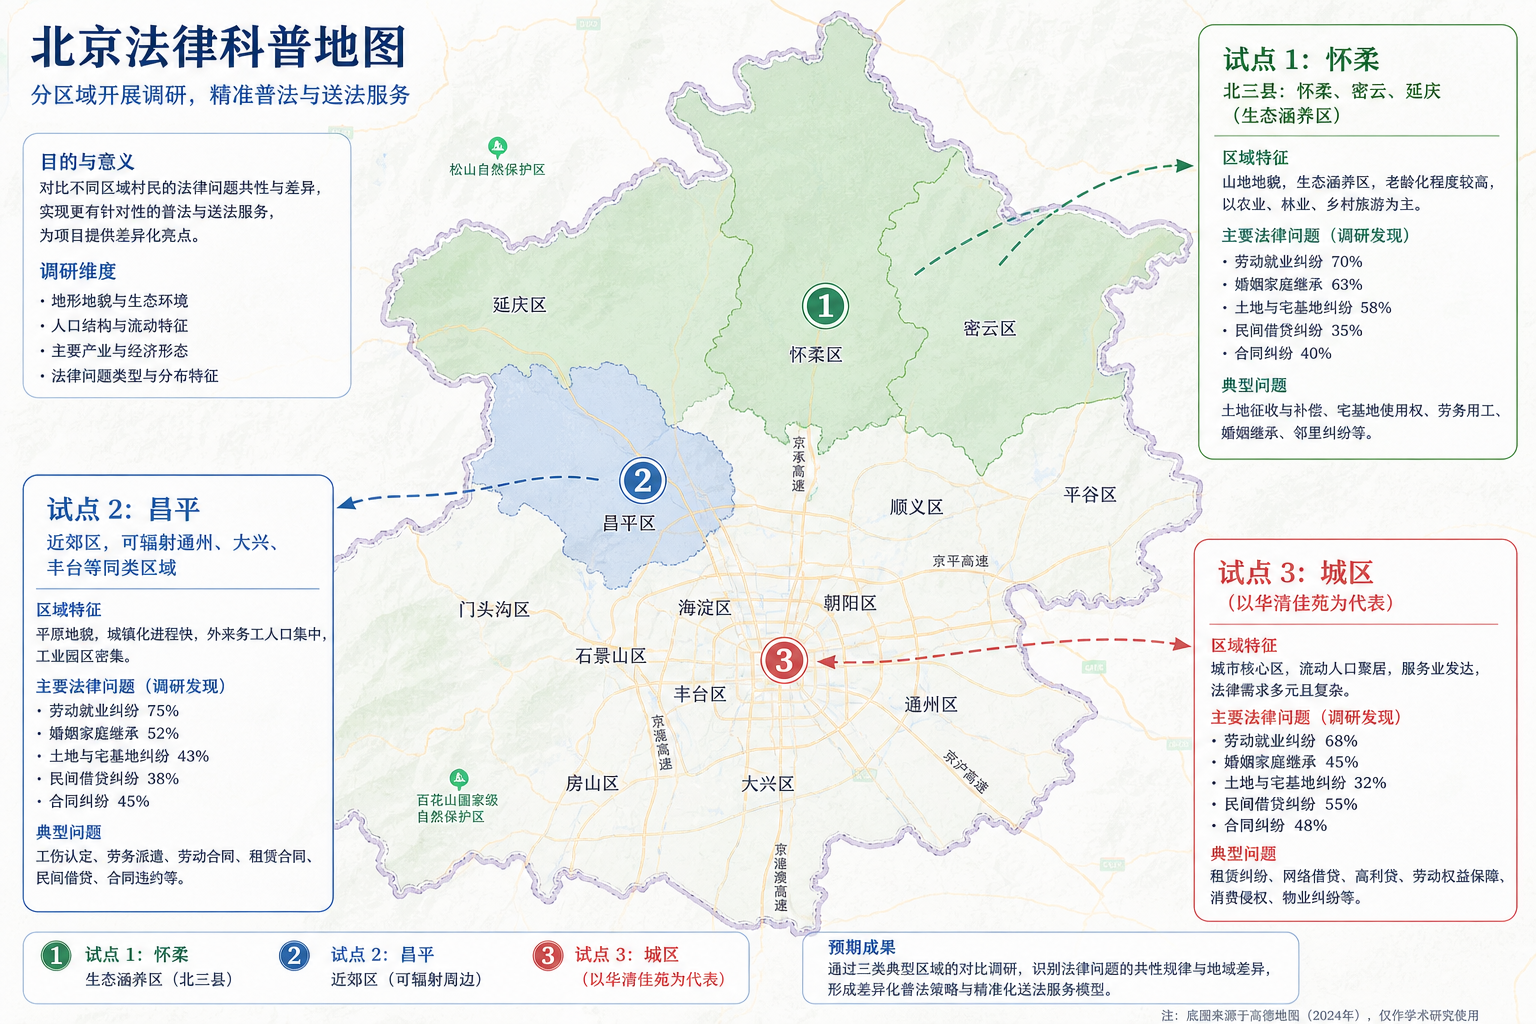
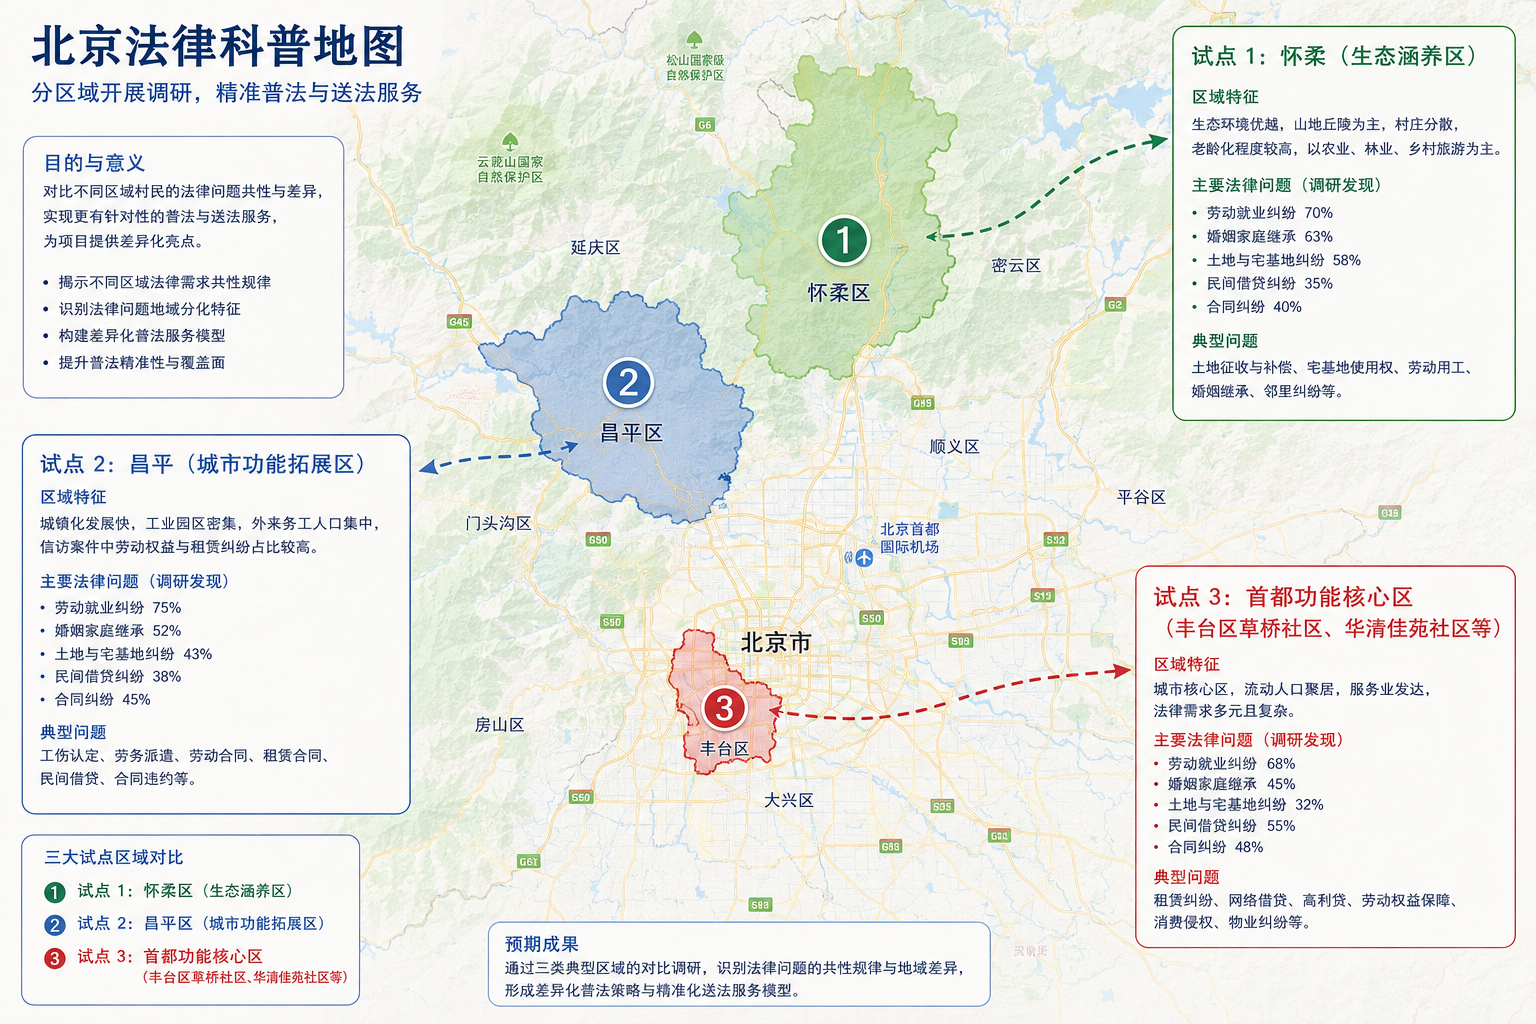
fix: 法医青苗→法育青苗(全局), 更新科普地图, 补充三地法律需求与方言横向对比

diff --git a/html/templates/volunteer.html b/html/templates/volunteer.html
@@ -133,7 +133,7 @@
   <div class="volunteer-header">
     <div class="volunteer-header-content">
       <h1>法润乡邻 · 诊治同行</h1>
-      <p>农智汇 × 法医青苗 联合志愿法律服务项目<br>聚焦北京郊区农村法律需求，打通法律服务「最后一公里」</p>
+      <p>农智汇 × 法育青苗 联合志愿法律服务项目<br>聚焦北京郊区农村法律需求，打通法律服务「最后一公里」</p>
       <div class="volunteer-stats">
         <div class="stat-item"><span class="stat-number">70+</span><span class="stat-label">法律咨询次数</span></div>
         <div class="stat-item"><span class="stat-number">27</span><span class="stat-label">法律文书协助</span></div>
@@ -386,7 +386,7 @@
   <div id="consult-tab" class="tab-content" style="padding:0 20px">
     <div class="consult-entry">
       <h3>在线法律咨询</h3>
-      <p>农智汇 AI 助手已接入涉农法律知识库，可即时解答土地、劳动、婚姻家庭等常见法律问题<br>复杂纠纷可提交给「法医青苗」志愿团队，1-3个工作日内人工回复</p>
+      <p>农智汇 AI 助手已接入涉农法律知识库，可即时解答土地、劳动、婚姻家庭等常见法律问题<br>复杂纠纷可提交给「法育青苗」志愿团队，1-3个工作日内人工回复</p>
       <div class="consult-entry-btns">
         <button class="btn-white-solid" onclick="location.href='/chat'">AI 即时问答</button>
         <button class="btn-outline-white" onclick="showConsultForm()">提交人工咨询</button>

diff --git a/html/app.py b/html/app.py
@@ -413,6 +413,14 @@ def api_chat_send():
     if not message:
         return jsonify(code=-1, message='请输入消息')
     resp = api_post('/api/chat/send', {'message': message, 'sessionId': session_id}, timeout=90)
+    # 兜底：确保前端始终能拿到 data.reply，避免显示硬编码fallback
+    if not resp.get('data'):
+        err_msg = resp.get('message', '后端连接失败')
+        print(f'[chat] 后端无响应，错误: {err_msg}')
+        resp['data'] = {
+            'reply': f'抱歉，智能助手暂时无法响应（{err_msg[:60]}）。请稍后重试，或前往"志愿服务"页面提交人工咨询。',
+            'sessionId': session_id
+        }
     return jsonify(resp)
 
 @app.route('/api/chat/clear', methods=['POST'])
